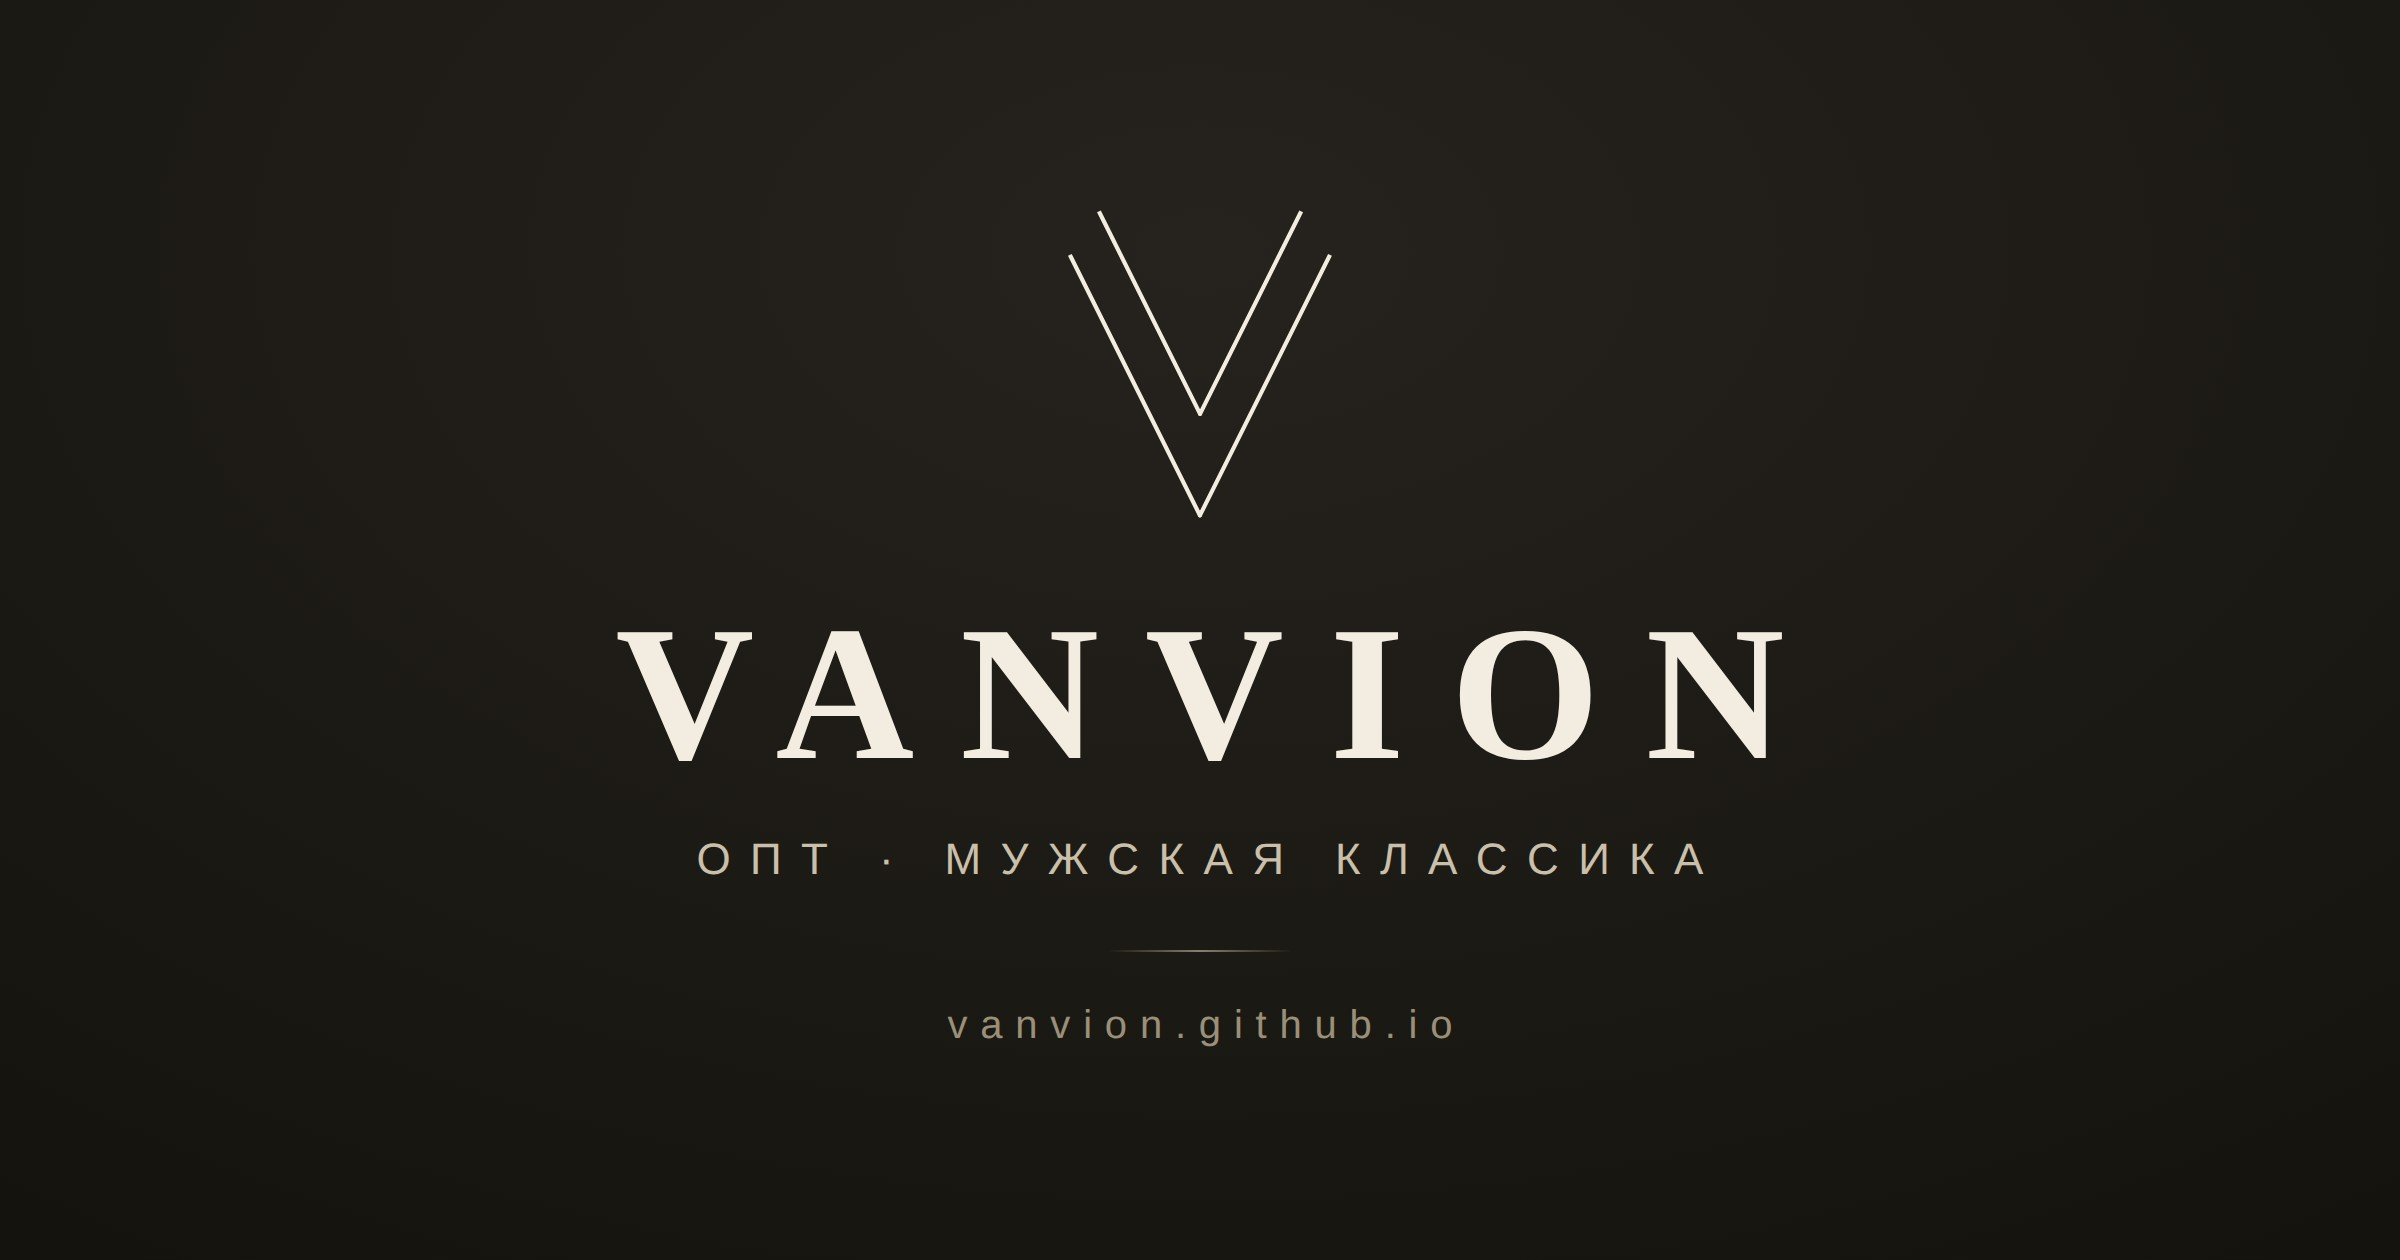
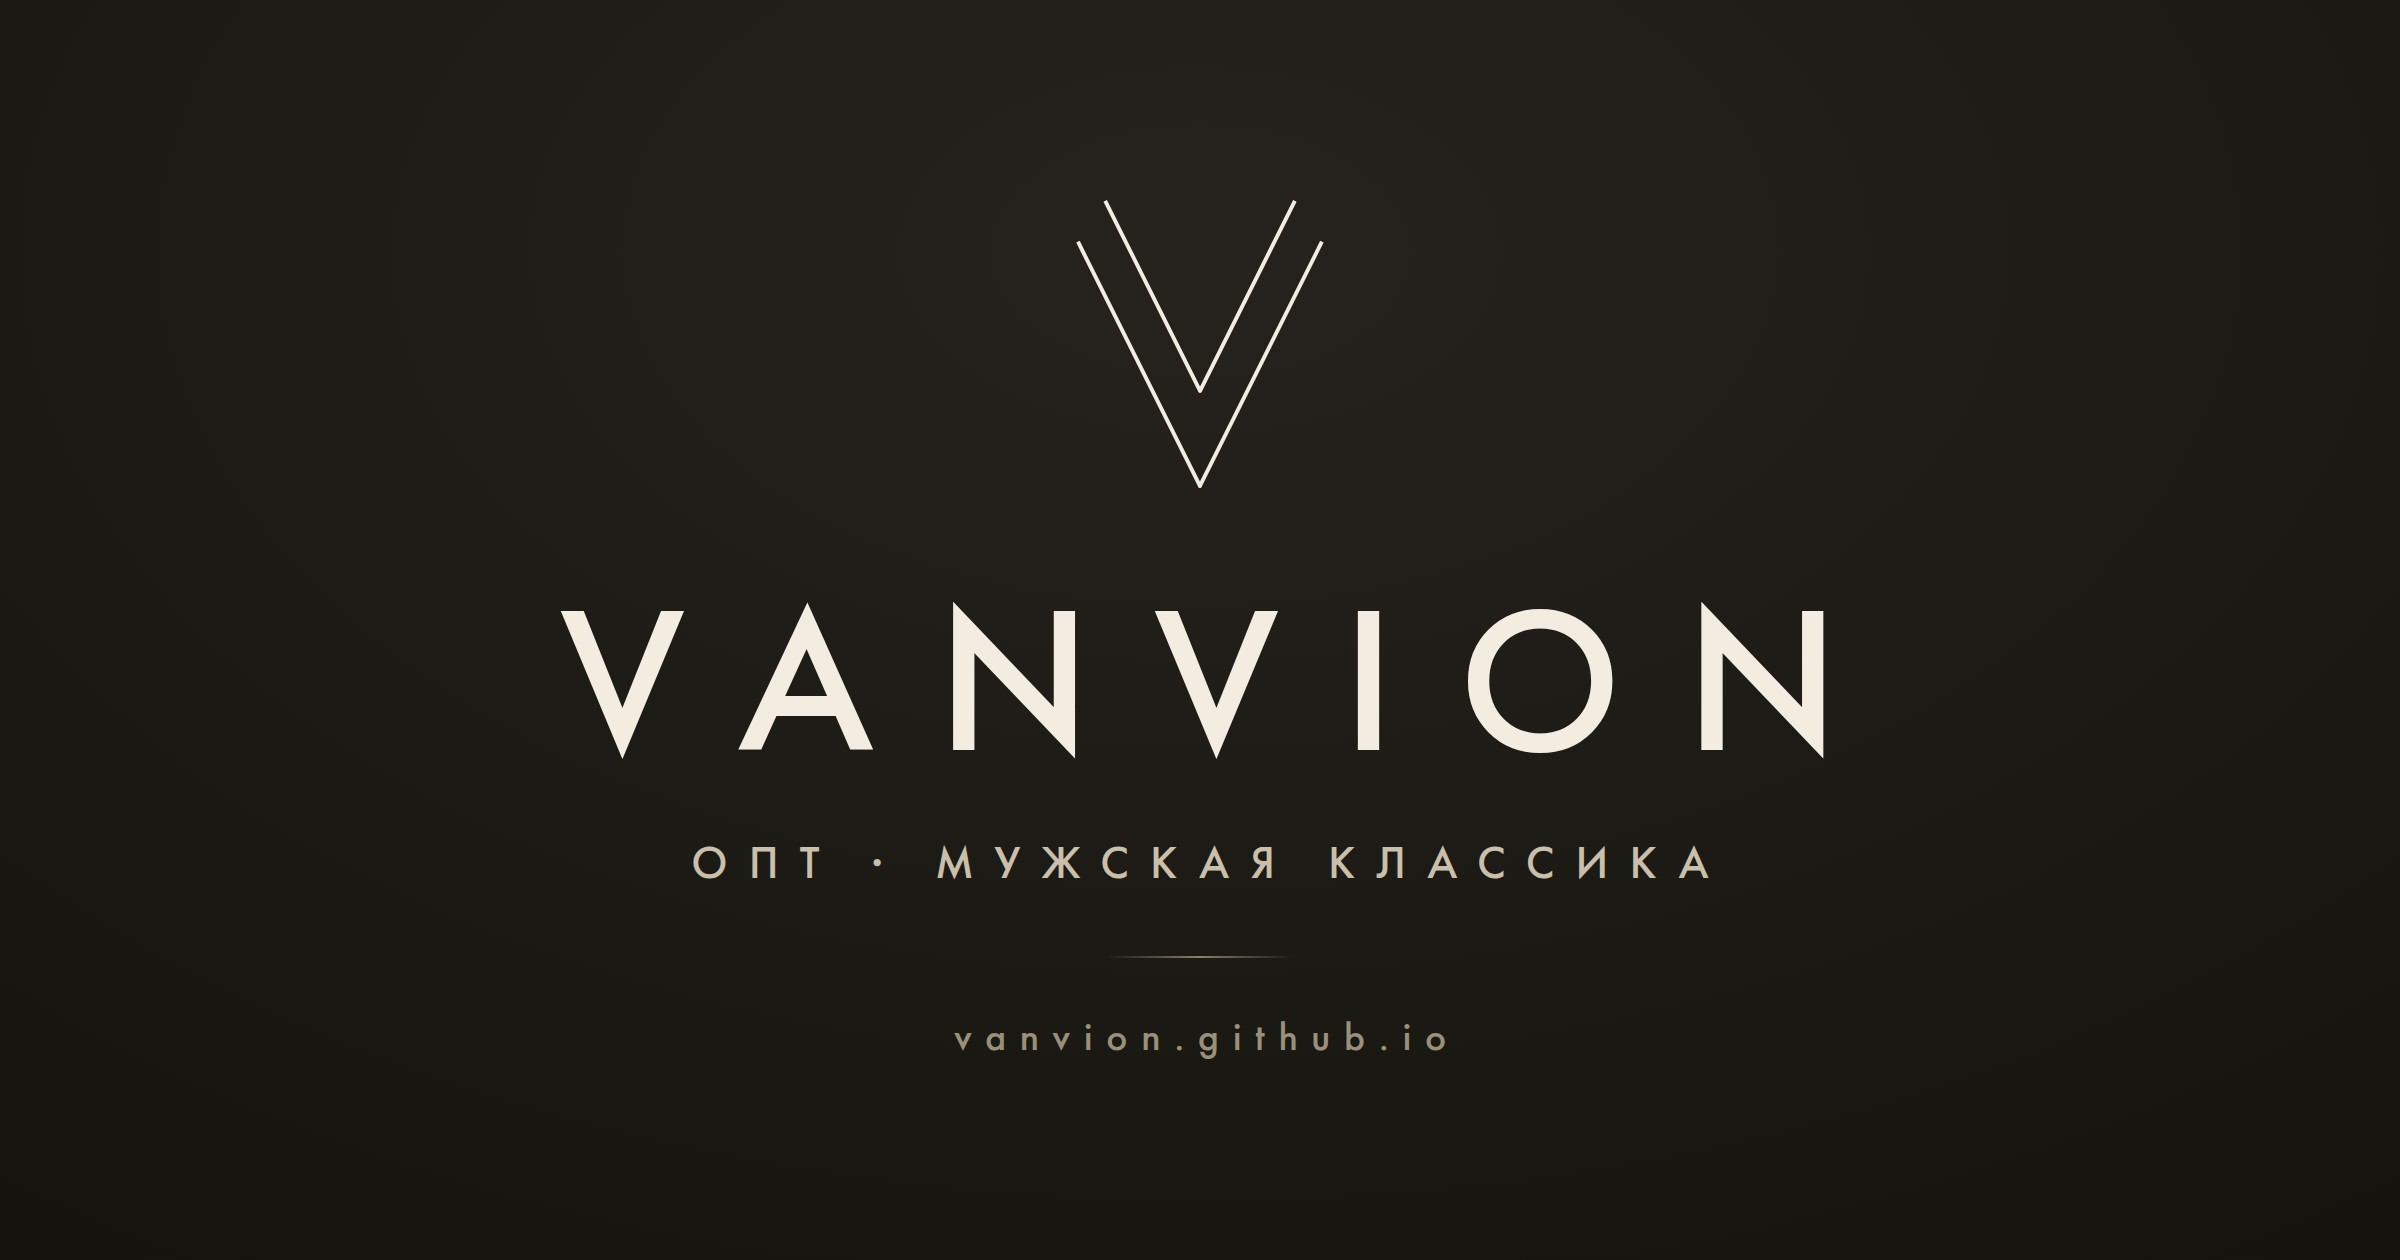
OG preview: set wordmark in Futura PT
Claude-Session: https://claude.ai/code/session_019czdKvoWMz2UjvhTwpnUk9

diff --git a/index.html b/index.html
@@ -46,14 +46,14 @@
 <meta property="og:title" content="VANVION — оптовый каталог мужской одежды">
 <meta property="og:description" content="Оптовый каталог мужской классики: пиджаки, брюки. Заказ через WhatsApp, Telegram и MAX. ТЦ «Садовод», Москва.">
 <meta property="og:url" content="https://vanvion.github.io/">
-<meta property="og:image" content="https://vanvion.github.io/og-image.jpg?v=3">
+<meta property="og:image" content="https://vanvion.github.io/og-image.jpg?v=4">
 <meta property="og:image:width" content="1200">
 <meta property="og:image:height" content="630">
 <meta property="og:locale" content="ru_RU">
 <meta name="twitter:card" content="summary_large_image">
 <meta name="twitter:title" content="VANVION — оптовый каталог мужской одежды">
 <meta name="twitter:description" content="Оптовый каталог мужской классики: пиджаки, брюки. Заказ через WhatsApp, Telegram и MAX.">
-<meta name="twitter:image" content="https://vanvion.github.io/og-image.jpg?v=3">
+<meta name="twitter:image" content="https://vanvion.github.io/og-image.jpg?v=4">
 
 <!-- Структурированные данные для поиска (Яндекс / Google) -->
 <script type="application/ld+json">
